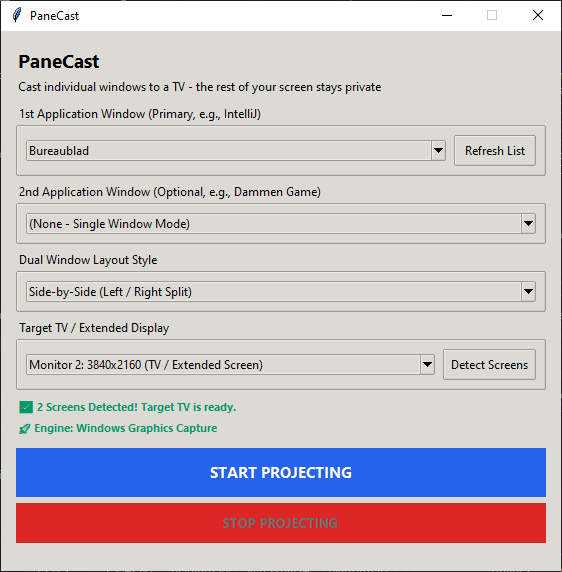
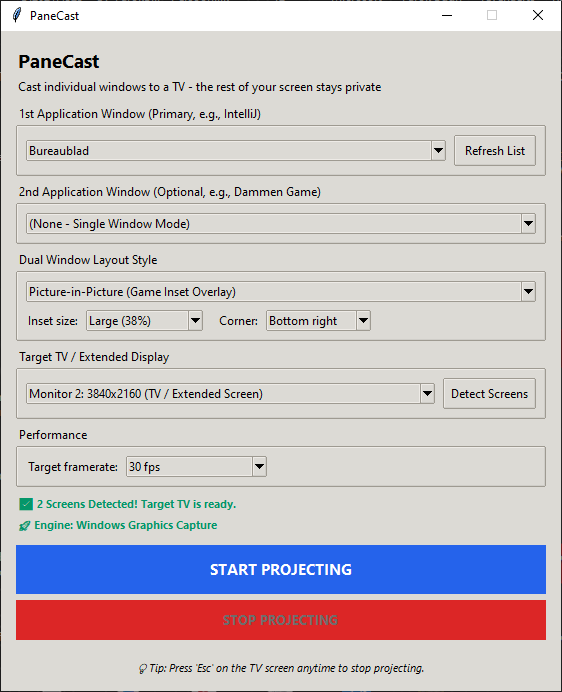
Add framerate control, saved settings and adjustable picture-in-picture
Three roadmap items:

- Target framerate is selectable (15/30/60/unlimited) instead of the fixed 8ms
  timer. Because the render loop already skips ticks when no new frame has
  arrived, a lower cap reduces CPU without hurting responsiveness.
- Window, display, layout, framerate and inset choices persist to
  %APPDATA%/PaneCast/settings.json and are restored on launch. A saved window
  is only reselected if a window with that title exists again, and a saved
  display only if it is still connected.
- The picture-in-picture inset can be placed in any corner at 25/33/38/50% of
  the screen, replacing the hardcoded bottom-right 38%. The controls are
  enabled only in picture-in-picture mode.

Screenshot updated to show the new controls.

Claude-Session: https://claude.ai/code/session_0154WrS3x7ayQYgmEJfsum5Z

diff --git a/panecast.py b/panecast.py
@@ -4,6 +4,7 @@ import tkinter as tk
 from tkinter import ttk, messagebox
 from PIL import Image, ImageTk
 import atexit
+import json
 import os
 
 # Enable 1ms High-Precision System Timer on Windows for Ultra-Smooth Refresh Rates
@@ -30,6 +31,52 @@ except Exception:
         ctypes.windll.user32.SetProcessDpiAwarenessContext(-4)
     except Exception:
         pass
+
+APP_NAME = "PaneCast"
+
+# (label, frames per second). 0 means "as fast as the render loop manages".
+FPS_OPTIONS = [
+    ("15 fps (lowest CPU)", 15),
+    ("30 fps", 30),
+    ("60 fps", 60),
+    ("Unlimited", 0),
+]
+
+# (label, fraction of the screen the inset occupies)
+PIP_SIZE_OPTIONS = [("Small (25%)", 0.25), ("Medium (33%)", 0.33),
+                    ("Large (38%)", 0.38), ("Extra large (50%)", 0.50)]
+
+# (label, (horizontal, vertical)) where horizontal is 'l'/'r' and vertical 't'/'b'
+PIP_CORNER_OPTIONS = [("Bottom right", ("r", "b")), ("Bottom left", ("l", "b")),
+                      ("Top right", ("r", "t")), ("Top left", ("l", "t"))]
+
+
+def settings_path():
+    """Per-user settings file, kept out of the install directory."""
+    base = os.environ.get("APPDATA") or os.path.expanduser("~")
+    return os.path.join(base, APP_NAME, "settings.json")
+
+
+def load_settings():
+    """Return saved settings, or an empty dict if there are none or they are unreadable."""
+    try:
+        with open(settings_path(), encoding="utf-8") as fh:
+            data = json.load(fh)
+        return data if isinstance(data, dict) else {}
+    except Exception:
+        return {}
+
+
+def save_settings(data):
+    """Best-effort persist. Never let a settings failure interrupt projection."""
+    try:
+        path = settings_path()
+        os.makedirs(os.path.dirname(path), exist_ok=True)
+        with open(path, "w", encoding="utf-8") as fh:
+            json.dump(data, fh, indent=2)
+    except Exception:
+        pass
+
 
 user32 = ctypes.windll.user32
 gdi32 = ctypes.windll.gdi32
@@ -223,7 +270,7 @@ class PaneCastControl:
     def __init__(self, root):
         self.root = root
         self.root.title("PaneCast")
-        self.root.geometry("560x540")
+        self.root.geometry("560x660")
         self.root.resizable(False, False)
         
         style = ttk.Style()
@@ -255,6 +302,7 @@ class PaneCastControl:
         # coords/itemconfigure calls can be skipped when nothing moved.
         self._blit_state = {}
         self._pip_visible = None
+        self.frame_interval_ms = 33      # replaced from the saved settings below
         
         self.item_id1 = None
         self.item_id2 = None
@@ -270,6 +318,7 @@ class PaneCastControl:
 
         self._build_ui()
         self.refresh_all()
+        self._apply_settings()
 
     def _build_ui(self):
         main_frame = ttk.Frame(self.root, padding="15 15 15 15")
@@ -313,6 +362,30 @@ class PaneCastControl:
         )
         self.layout_combo.current(0)
         self.layout_combo.pack(fill=tk.X)
+        self.layout_combo.bind("<<ComboboxSelected>>", self._on_layout_changed)
+
+        # Picture-in-picture tuning. Only meaningful in PiP mode, so it is
+        # enabled and disabled alongside the layout selection.
+        self.pip_frame = ttk.Frame(layout_group)
+        self.pip_frame.pack(fill=tk.X, pady=(8, 0))
+
+        ttk.Label(self.pip_frame, text="Inset size:", font=("Segoe UI", 9)).pack(side=tk.LEFT)
+        self.pip_size_combo = ttk.Combobox(
+            self.pip_frame, state="readonly", font=("Segoe UI", 9), width=16,
+            values=[label for label, _ in PIP_SIZE_OPTIONS]
+        )
+        self.pip_size_combo.current(2)
+        self.pip_size_combo.pack(side=tk.LEFT, padx=(6, 14))
+        self.pip_size_combo.bind("<<ComboboxSelected>>", self._on_pip_changed)
+
+        ttk.Label(self.pip_frame, text="Corner:", font=("Segoe UI", 9)).pack(side=tk.LEFT)
+        self.pip_corner_combo = ttk.Combobox(
+            self.pip_frame, state="readonly", font=("Segoe UI", 9), width=14,
+            values=[label for label, _ in PIP_CORNER_OPTIONS]
+        )
+        self.pip_corner_combo.current(0)
+        self.pip_corner_combo.pack(side=tk.LEFT, padx=(6, 0))
+        self.pip_corner_combo.bind("<<ComboboxSelected>>", self._on_pip_changed)
 
         # Display Selection Section
         disp_group = ttk.LabelFrame(main_frame, text=" Target TV / Extended Display ", padding="8 8 8 8")
@@ -323,6 +396,19 @@ class PaneCastControl:
 
         btn_refresh_disp = ttk.Button(disp_group, text="Detect Screens", command=self.refresh_monitors)
         btn_refresh_disp.pack(side=tk.RIGHT)
+
+        # Target framerate
+        perf_group = ttk.LabelFrame(main_frame, text=" Performance ", padding="8 8 8 8")
+        perf_group.pack(fill=tk.X, pady=(0, 8))
+
+        ttk.Label(perf_group, text="Target framerate:", font=("Segoe UI", 9)).pack(side=tk.LEFT)
+        self.fps_combo = ttk.Combobox(
+            perf_group, state="readonly", font=("Segoe UI", 9), width=20,
+            values=[label for label, _ in FPS_OPTIONS]
+        )
+        self.fps_combo.current(1)
+        self.fps_combo.pack(side=tk.LEFT, padx=(6, 0))
+        self.fps_combo.bind("<<ComboboxSelected>>", self._on_fps_changed)
 
         # Multi-monitor notice label
         self.monitor_notice = ttk.Label(main_frame, text="", font=("Segoe UI", 8, "bold"))
@@ -354,6 +440,82 @@ class PaneCastControl:
         # Footer
         footer = ttk.Label(main_frame, text="💡 Tip: Press 'Esc' on the TV screen anytime to stop projecting.", font=("Segoe UI", 8, "italic"))
         footer.pack(side=tk.BOTTOM, pady=(4, 0))
+
+    # ---- option accessors -------------------------------------------------
+
+    def _fps_interval_ms(self):
+        """Milliseconds between render ticks for the selected target framerate."""
+        idx = self.fps_combo.current()
+        fps = FPS_OPTIONS[idx][1] if 0 <= idx < len(FPS_OPTIONS) else 30
+        return 1 if fps <= 0 else max(1, round(1000 / fps))
+
+    def _pip_fraction(self):
+        idx = self.pip_size_combo.current()
+        return PIP_SIZE_OPTIONS[idx][1] if 0 <= idx < len(PIP_SIZE_OPTIONS) else 0.38
+
+    def _pip_corner(self):
+        idx = self.pip_corner_combo.current()
+        return PIP_CORNER_OPTIONS[idx][1] if 0 <= idx < len(PIP_CORNER_OPTIONS) else ("r", "b")
+
+    def _on_fps_changed(self, event=None):
+        self.frame_interval_ms = self._fps_interval_ms()
+
+    def _on_pip_changed(self, event=None):
+        # Force the next tick to repaint so the change is visible immediately
+        # instead of waiting for the next captured frame.
+        self.rendered_seq1 = self.rendered_seq2 = -1
+        self._blit_state.clear()
+        self._pip_visible = None
+
+    def _on_layout_changed(self, event=None):
+        is_pip = self.layout_combo.current() == 2
+        state = "readonly" if is_pip else "disabled"
+        self.pip_size_combo.config(state=state)
+        self.pip_corner_combo.config(state=state)
+        self._on_pip_changed()
+
+    # ---- settings ---------------------------------------------------------
+
+    def _apply_settings(self):
+        """Restore the previous session's choices where they still make sense."""
+        cfg = load_settings()
+
+        title = cfg.get("window1")
+        if title and title in self.windows_map:
+            self.win1_combo.set(title)
+
+        title2 = cfg.get("window2")
+        if title2 and title2 in self.windows_map:
+            self.win2_combo.set(title2)
+
+        for key, combo, table in (
+            ("layout", self.layout_combo, range(3)),
+            ("fps", self.fps_combo, FPS_OPTIONS),
+            ("pip_size", self.pip_size_combo, PIP_SIZE_OPTIONS),
+            ("pip_corner", self.pip_corner_combo, PIP_CORNER_OPTIONS),
+        ):
+            idx = cfg.get(key)
+            if isinstance(idx, int) and 0 <= idx < len(table):
+                combo.current(idx)
+
+        # A saved monitor index is only meaningful if that monitor still exists.
+        mon = cfg.get("monitor")
+        if isinstance(mon, int) and 0 <= mon < len(self.monitors_list):
+            self.disp_combo.current(mon)
+
+        self.frame_interval_ms = self._fps_interval_ms()
+        self._on_layout_changed()
+
+    def _save_settings(self):
+        save_settings({
+            "window1": self.win1_combo.get(),
+            "window2": self.win2_combo.get(),
+            "layout": self.layout_combo.current(),
+            "monitor": self.disp_combo.current(),
+            "fps": self.fps_combo.current(),
+            "pip_size": self.pip_size_combo.current(),
+            "pip_corner": self.pip_corner_combo.current(),
+        })
 
     def refresh_all(self):
         self.refresh_windows()
@@ -480,6 +642,7 @@ class PaneCastControl:
             self.target_hwnd2 = None
 
         self.target_monitor = self.monitors_list[disp_idx]
+        self._save_settings()
         self.latest_pil_img1 = None
         self.latest_pil_img2 = None
         self.frame_seq1 = 0
@@ -531,10 +694,6 @@ class PaneCastControl:
 
         # Start high-speed refresh rate update loop
         self.update_projection()
-
-    # Render tick. The dirty check below means idle ticks are nearly free, so
-    # this can stay short without burning CPU on unchanged frames.
-    FRAME_INTERVAL_MS = 8
 
     def _blit(self, item_id, slot, pil_img, box_w, box_h, cx, cy):
         """Scale pil_img to fit box_w x box_h and centre it on (cx, cy).
@@ -615,7 +774,7 @@ class PaneCastControl:
         # Nothing new arrived since the last paint - skip the rescale and the
         # texture upload entirely.
         if seq1 == self.rendered_seq1 and seq2 == self.rendered_seq2:
-            self.root.after(self.FRAME_INTERVAL_MS, self.update_projection)
+            self.root.after(self.frame_interval_ms, self.update_projection)
             return
         self.rendered_seq1, self.rendered_seq2 = seq1, seq2
 
@@ -664,26 +823,33 @@ class PaneCastControl:
                     self._blit(self.item_id1, 1, img1, canvas_w, canvas_h,
                                canvas_w // 2, canvas_h // 2)
                 if img2:
-                    max_pip_w = int(canvas_w * 0.38)
-                    max_pip_h = int(canvas_h * 0.38)
+                    frac = self._pip_fraction()
+                    horiz, vert = self._pip_corner()
+                    max_pip_w = int(canvas_w * frac)
+                    max_pip_h = int(canvas_h * frac)
                     padding = 20
 
                     w2, h2 = img2.size
                     ratio2 = min(max_pip_w / w2, max_pip_h / h2)
                     nw2, nh2 = max(1, int(w2 * ratio2)), max(1, int(h2 * ratio2))
 
-                    self.canvas.coords(
-                        self.rect_pip_id,
-                        canvas_w - nw2 - padding - 4, canvas_h - nh2 - padding - 4,
-                        canvas_w - padding + 4, canvas_h - padding + 4
-                    )
+                    if horiz == "r":
+                        x1 = canvas_w - nw2 - padding
+                    else:
+                        x1 = padding
+                    if vert == "b":
+                        y1 = canvas_h - nh2 - padding
+                    else:
+                        y1 = padding
+
+                    self.canvas.coords(self.rect_pip_id,
+                                       x1 - 4, y1 - 4, x1 + nw2 + 4, y1 + nh2 + 4)
                     self._set_pip_visible(True)
 
                     self._blit(self.item_id2, 2, img2, max_pip_w, max_pip_h,
-                               canvas_w - (nw2 // 2) - padding,
-                               canvas_h - (nh2 // 2) - padding)
+                               x1 + nw2 // 2, y1 + nh2 // 2)
 
-        self.root.after(self.FRAME_INTERVAL_MS, self.update_projection)
+        self.root.after(self.frame_interval_ms, self.update_projection)
 
     def stop_projection(self):
         self.is_projecting = False
@@ -715,6 +881,7 @@ class PaneCastControl:
 
     def on_close(self):
         """Tear down capture threads before the UI goes away."""
+        self._save_settings()
         self.stop_projection()
         try:
             self.root.destroy()

diff --git a/README.md b/README.md
@@ -25,6 +25,12 @@ laptop while only the window(s) you chose appear on the big screen.
   capture cleanly instead of showing a blank frame.
 - **DPI-correct** — per-monitor DPI awareness keeps pixels 1:1 on mixed-DPI
   setups.
+- **Configurable framerate** — cap the render loop at 15, 30 or 60 fps to trade
+  smoothness for CPU, or run unlimited.
+- **Adjustable picture-in-picture** — put the inset in any corner at 25%, 33%,
+  38% or 50% of the screen.
+- **Remembers your setup** — window, display, layout and framerate choices are
+  restored the next time you launch.
 - **Press `Esc` or `q`** on the projected screen to stop at any time.
 
 ## Screenshot
@@ -90,7 +96,30 @@ python panecast.py
 | --- | --- |
 | **Side-by-Side** | Two windows split left / right. |
 | **Top / Bottom** | Two windows stacked vertically. |
-| **Picture-in-Picture** | Window 1 fills the screen; window 2 floats bottom-right at 38% size. |
+| **Picture-in-Picture** | Window 1 fills the screen; window 2 floats in a corner as an inset. |
+
+In picture-in-picture mode the **Inset size** and **Corner** controls become
+available, letting you place the inset in any of the four corners at 25%, 33%,
+38% or 50% of the screen. They are greyed out in the other layouts.
+
+### Framerate
+
+**Target framerate** caps the render loop. Frames are only redrawn when the
+capture thread delivers a new one, so a lower cap costs nothing in
+responsiveness but meaningfully reduces CPU. 30 fps is the default; drop to
+15 fps on a laptop running on battery, or raise it if you are projecting at
+1080p and want maximum smoothness.
+
+### Saved settings
+
+Your selections are written to `%APPDATA%\PaneCast\settings.json` when you
+start projecting and when you close the app, then restored on the next launch.
+A remembered window is only reselected if a window with that title is open
+again; a remembered display only if it is still connected. Delete the file to
+reset to defaults.
+
+Note that the file records the *titles* of the windows you projected. It stays
+on your machine, but delete it if you would rather not keep that history.
 
 Selecting *"(None - Single Window Mode)"* for the second window projects a
 single window scaled to fit, preserving aspect ratio.
@@ -223,9 +252,9 @@ after opening the app. Minimised windows may not capture reliably.
 ## Roadmap
 
 - [ ] Cross-platform capture backends (macOS, Linux)
-- [ ] Configurable target framerate instead of a fixed timer
-- [ ] Remember last-used window/display selection between runs
-- [ ] Adjustable picture-in-picture size and corner
+- [x] Configurable target framerate instead of a fixed timer
+- [x] Remember last-used window/display selection between runs
+- [x] Adjustable picture-in-picture size and corner
 - [ ] Signed release binaries via GitHub Actions
 
 ## Contributing
